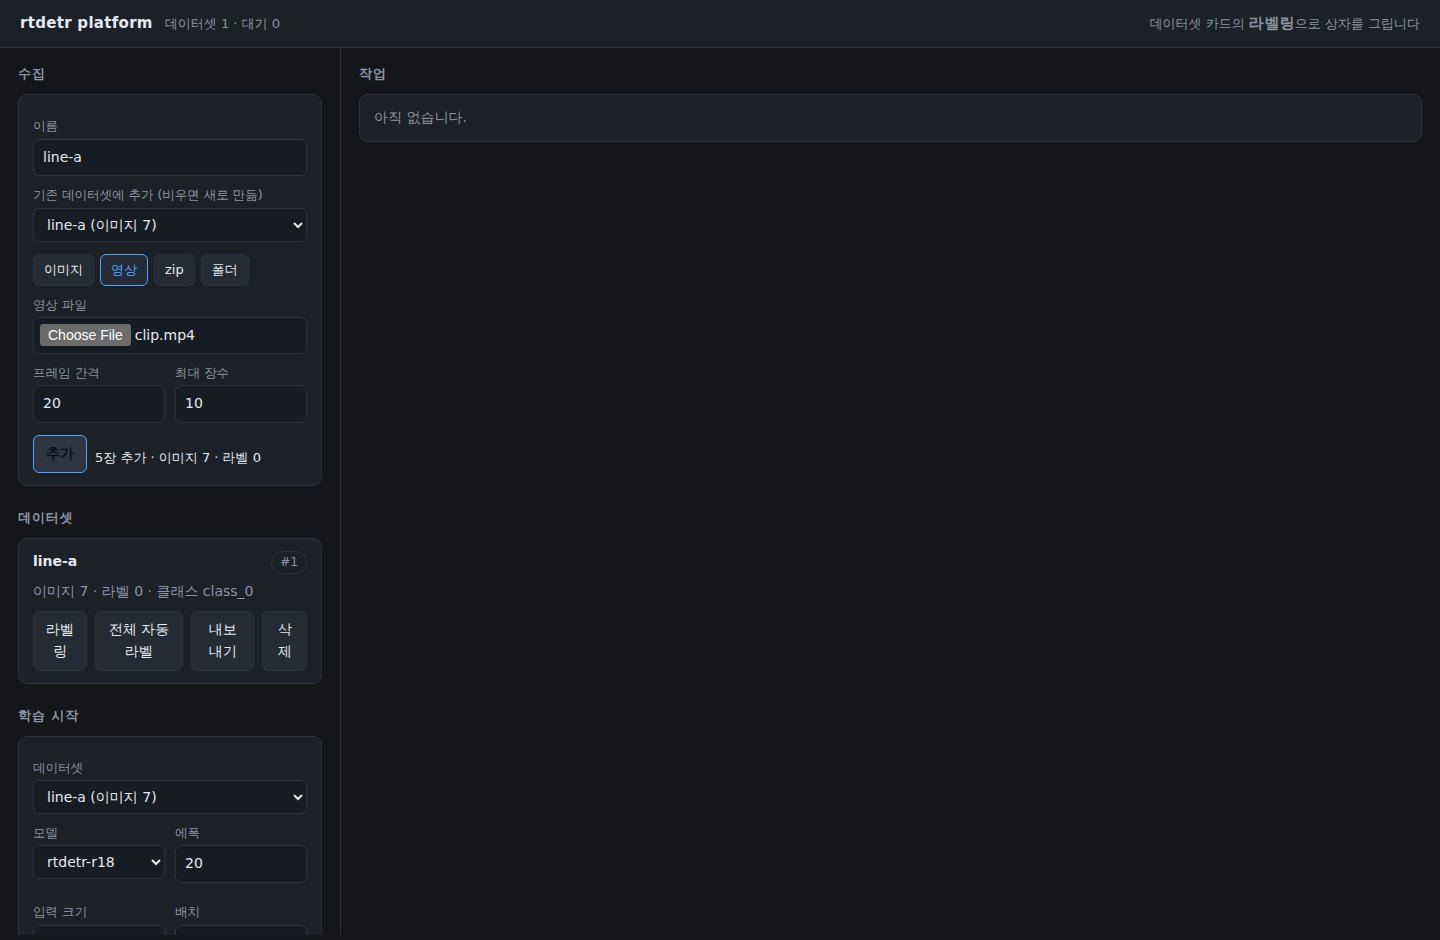
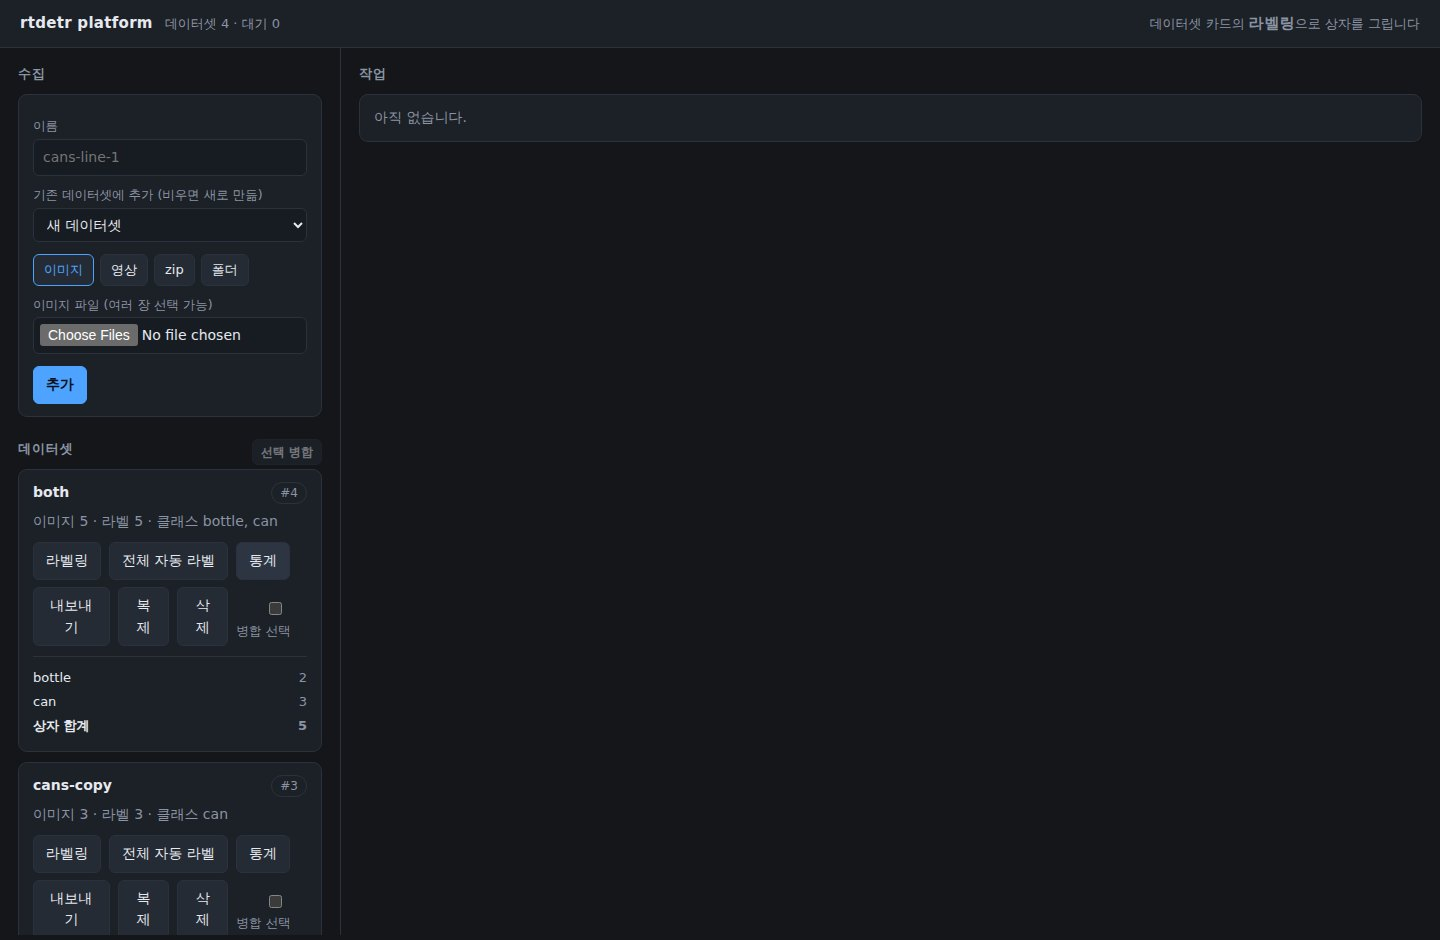
Manage datasets: stats, drop an image, duplicate, merge
Stage three of the plan. A dataset was something you could only create, label
and delete whole; the operations that a real collection needs were missing.

- *통계* counts boxes per class and flags what usually bites later: images with
  no label file, label files with no boxes, and specks under 0.1% of the frame.
  Finding out you have 400 people and 3 cars belongs here, not in a training
  curve two hours later.
- An image can be dropped with its label from the labelling page. Video
  extraction produces blurred frames and there was no way to be rid of them.
- *복제* snapshots a set before a relabel, which is otherwise a one-way door.
- *병합* combines datasets and remaps class indices by name. This is the one
  that cannot be done with a file copy: index 0 is "can" in one set and "bottle"
  in another, so a straight merge silently mislabels everything. Ids are sorted
  before merging so the union order does not depend on click order.

Verified in a browser: stats panel, duplicate, merge two sets into six images
with the union ["bottle", "can"], then drop one image (6 files to 5).

Claude-Session: https://claude.ai/code/session_013CggjBMmJTVZhEHZXgGVV7

diff --git a/platform/static/index.html b/platform/static/index.html
@@ -44,6 +44,11 @@
   .msg.err { color:var(--bad); }
   .bar { height:5px; border-radius:99px; background:#232833; margin-top:9px; overflow:hidden; }
   .bar i { display:block; height:100%; background:var(--accent); transition:width .3s; }
+  .stats { margin-top:10px; border-top:1px solid var(--line); padding-top:9px; font-size:13px; }
+  .stats table { width:100%; }
+  .stats td { padding:2px 0; border:0; }
+  .stats td:last-child { text-align:right; color:var(--dim); }
+  .warn { color:#ffb648; }
   img#preview { max-width:100%; border-radius:9px; border:1px solid var(--line); margin-top:10px; }
 </style>
 
@@ -99,7 +104,7 @@
       </div>
     </div>
 
-    <h2>데이터셋</h2>
+    <h2>데이터셋 <button id="merge" style="float:right;font-size:12px;padding:3px 8px" disabled>선택 병합</button></h2>
     <div id="datasets"></div>
 
     <h2>학습 시작</h2>
@@ -177,14 +182,27 @@ async function refresh() {
       <div class="row" style="margin-top:9px">
         <button onclick="location.assign('/label/${d.id}')">라벨링</button>
         <button data-autolabel="${d.id}">전체 자동 라벨</button>
-        <button onclick="location.assign('/api/datasets/${d.id}/export')">내보내기</button>
-        <button data-delete="${d.id}">삭제</button>
+        <button data-stats="${d.id}">통계</button>
       </div>
+      <div class="row">
+        <button onclick="location.assign('/api/datasets/${d.id}/export')">내보내기</button>
+        <button data-duplicate="${d.id}">복제</button>
+        <button data-delete="${d.id}">삭제</button>
+        <label class="dim" style="margin-left:auto"><input type="checkbox" data-pick="${d.id}"> 병합 선택</label>
+      </div>
+      <div class="stats" id="stats-${d.id}" hidden></div>
     </div>`).join("") || `<div class="card dim">아직 없습니다.</div>`;
   document.querySelectorAll("[data-autolabel]").forEach((el) =>
     el.onclick = () => autolabelAll(Number(el.dataset.autolabel)));
   document.querySelectorAll("[data-delete]").forEach((el) =>
     el.onclick = () => removeDataset(Number(el.dataset.delete)));
+  document.querySelectorAll("[data-stats]").forEach((el) =>
+    el.onclick = () => showStats(Number(el.dataset.stats)));
+  document.querySelectorAll("[data-duplicate]").forEach((el) =>
+    el.onclick = () => duplicate(Number(el.dataset.duplicate)));
+  document.querySelectorAll("[data-pick]").forEach((el) =>
+    el.onchange = updateMergeButton);
+  updateMergeButton();
 
   const options = datasets.map((d) =>
     `<option value="${d.id}">${d.name} (이미지 ${d.images})</option>`).join("");
@@ -327,6 +345,41 @@ $("ds-upload").onclick = async () => {
     say(`${added}이미지 ${res.images} · 라벨 ${res.labelled}`);
     await refresh();
   } catch (e) { say(e.message, true); }
+};
+
+const picked = () => [...document.querySelectorAll("[data-pick]:checked")].map((el) => Number(el.dataset.pick));
+function updateMergeButton() { $("merge").disabled = picked().length < 2; }
+
+async function showStats(datasetId) {
+  const panel = $(`stats-${datasetId}`);
+  if (!panel.hidden) { panel.hidden = true; return; }
+  const s = await api(`/api/datasets/${datasetId}/stats`);
+  const rows = s.per_class.map((c) => `<tr><td>${c.name}</td><td>${c.boxes}</td></tr>`).join("");
+  const warn = [];
+  if (s.unlabelled.length) warn.push(`라벨 없음 ${s.unlabelled.length}장`);
+  if (s.empty_labels.length) warn.push(`빈 라벨 ${s.empty_labels.length}장`);
+  if (s.tiny_boxes) warn.push(`아주 작은 상자 ${s.tiny_boxes}개`);
+  if (s.unknown_class_boxes) warn.push(`클래스 범위 밖 ${s.unknown_class_boxes}개`);
+  panel.innerHTML = `<table>${rows}<tr><td><b>상자 합계</b></td><td><b>${s.boxes}</b></td></tr></table>`
+    + (warn.length ? `<div class="warn" style="margin-top:6px">${warn.join(" · ")}</div>` : "");
+  panel.hidden = false;
+}
+
+async function duplicate(datasetId) {
+  try { await api(`/api/datasets/${datasetId}/duplicate`, { method: "POST",
+        headers: { "Content-Type": "application/json" }, body: "{}" }); await refresh(); }
+  catch (e) { $("ds-msg").textContent = e.message; $("ds-msg").className = "msg err"; }
+}
+
+$("merge").onclick = async () => {
+  const ids = picked();
+  const name = prompt("병합된 데이터셋 이름", "merged");
+  if (!name) return;
+  try { const res = await api("/api/datasets/merge", { method: "POST",
+          headers: { "Content-Type": "application/json" }, body: JSON.stringify({ ids, name }) });
+    $("ds-msg").textContent = `${res.added}장 병합 · 클래스 ${res.classes.join(", ")}`;
+    $("ds-msg").className = "msg"; await refresh(); }
+  catch (e) { $("ds-msg").textContent = e.message; $("ds-msg").className = "msg err"; }
 };
 
 async function removeDataset(datasetId) {

diff --git a/platform/static/label.html b/platform/static/label.html
@@ -61,6 +61,7 @@
     <button id="copy" title="이전 이미지의 상자를 그대로 가져옵니다 (C)">이전 상자 복사</button>
     <button id="undo">되돌리기</button>
     <button id="clear">모두 지우기</button>
+    <button id="drop" title="이 이미지와 라벨을 데이터셋에서 지웁니다">이미지 삭제</button>
     <button id="reset-zoom" hidden>100%</button>
     <span class="grow"></span>
     <span class="status" id="status"></span>
@@ -373,6 +374,15 @@ function onKey(e) {
 document.addEventListener("keyup", (e) => {
   if (e.code === "Space") { spaceDown = false; canvas.style.cursor = "crosshair"; }
 });
+
+$("drop").onclick = async () => {
+  if (!confirm(`${dataset.files[index].name} 을(를) 데이터셋에서 지웁니다.`)) return;
+  dirty = false;                                   // it is going away; do not save it back
+  await api(`/api/datasets/${DATASET}/images/${index}`, { method: "DELETE" });
+  dataset = await api(`/api/datasets/${DATASET}`);
+  if (!dataset.files.length) { location.assign("/"); return; }
+  await load(Math.min(index, dataset.files.length - 1));
+};
 
 $("copy").onclick = copyPrevious;
 $("add-class").onclick = addClass;

diff --git a/platform/app.py b/platform/app.py
@@ -242,6 +242,78 @@ def autolabel_all(dataset_id: int, payload: dict):
     return {"id": job_id}
 
 
+@app.get("/api/datasets/{dataset_id}/stats")
+def dataset_stats(dataset_id: int):
+    """What is actually in there — the numbers you check before training."""
+    dataset = _dataset(dataset_id)
+    images_root, labels_root = Path(dataset["images_dir"]), Path(dataset["labels_dir"])
+    names = json.loads(dataset["classes"])
+
+    per_class = dict.fromkeys(range(len(names)), 0)
+    unknown_class = 0
+    boxes = tiny = 0
+    unlabelled: list[str] = []
+    empty: list[str] = []
+    for image in list_images(images_root):
+        label = label_path(image, images_root, labels_root)
+        if not label.exists():
+            unlabelled.append(str(image.relative_to(images_root)))
+            continue
+        rows = read_labels(label)
+        if not rows:
+            empty.append(str(image.relative_to(images_root)))
+        for row in rows:
+            boxes += 1
+            if row["cls"] in per_class:
+                per_class[row["cls"]] += 1
+            else:
+                unknown_class += 1
+            if row["w"] * row["h"] < 0.001:  # under 0.1% of the frame
+                tiny += 1
+    return {
+        "images": len(list_images(images_root)),
+        "boxes": boxes,
+        "per_class": [{"name": n, "boxes": per_class.get(i, 0)} for i, n in enumerate(names)],
+        "unknown_class_boxes": unknown_class,
+        "unlabelled": unlabelled,
+        "empty_labels": empty,
+        "tiny_boxes": tiny,
+    }
+
+
+@app.delete("/api/datasets/{dataset_id}/images/{index}")
+def delete_image(dataset_id: int, index: int):
+    """Drop one image and its label — blurred frames are not worth labelling."""
+    dataset = _dataset(dataset_id)
+    images_root = Path(dataset["images_dir"])
+    images = list_images(images_root)
+    if not 0 <= index < len(images):
+        raise HTTPException(404, "no such image")
+    label = label_path(images[index], images_root, Path(dataset["labels_dir"]))
+    images[index].unlink(missing_ok=True)
+    label.unlink(missing_ok=True)
+    worker.refresh_counts(dataset_id)
+    return {"deleted": True, "images": len(list_images(images_root))}
+
+
+@app.post("/api/datasets/{dataset_id}/duplicate")
+def duplicate_dataset(dataset_id: int, payload: dict = None):
+    """A copy to experiment on — relabelling in place is a one-way door."""
+    dataset = _dataset(dataset_id)
+    name = (payload or {}).get("name") or f"{dataset['name']}-copy"
+    return _combine([dataset], name)
+
+
+@app.post("/api/datasets/merge")
+def merge_datasets(payload: dict):
+    """One dataset out of several, with class indices remapped onto a union."""
+    # sorted, so the class union comes out the same whatever order they were picked in
+    ids = sorted({int(i) for i in payload.get("ids") or []})
+    if len(ids) < 2:
+        raise HTTPException(400, "give at least two datasets to merge")
+    return _combine([_dataset(i) for i in ids], payload.get("name") or "merged")
+
+
 @app.get("/api/datasets/{dataset_id}/export")
 def export_dataset(dataset_id: int):
     """The whole dataset as a zip: images, labels, data.yaml — ready to re-import."""
@@ -620,6 +692,42 @@ def _ensure_split(dataset: dict, val_ratio: float) -> str | None:
         yaml.safe_dump(cfg, sort_keys=False, allow_unicode=True), encoding="utf-8"
     )
     return f"{len(train)} train / {len(val)} val images"
+
+
+def _combine(sources: list[dict], name: str) -> dict:
+    """Copy several datasets into a new one, unioning their class lists.
+
+    Class indices are per-dataset, so a straight file copy would silently turn
+    every "car" in the second set into whatever index 1 means in the first.
+    Names are matched instead, and labels rewritten onto the union.
+    """
+    names: list[str] = []
+    for source in sources:
+        for class_name in json.loads(source["classes"]):
+            if class_name not in names:
+                names.append(class_name)
+
+    target = DATASETS / f"{int(time.time())}_{_slug(name)}"
+    (target / "images").mkdir(parents=True)
+    (target / "labels").mkdir(parents=True)
+    copied = 0
+    for source in sources:
+        images_root, labels_root = Path(source["images_dir"]), Path(source["labels_dir"])
+        remap = {i: names.index(n) for i, n in enumerate(json.loads(source["classes"]))}
+        prefix = _slug(source["name"])
+        for image in list_images(images_root):
+            stem = f"{prefix}_{image.relative_to(images_root).as_posix().replace('/', '_')}"
+            destination = _unique(target / "images" / stem)
+            shutil.copy2(image, destination)
+            copied += 1
+            label = label_path(image, images_root, labels_root)
+            if not label.exists():
+                continue
+            rows = [dict(row, cls=remap.get(row["cls"], row["cls"])) for row in read_labels(label)]
+            write_labels((target / "labels" / destination.name).with_suffix(".txt"), rows)
+
+    registered = _register(name, target, names=names)
+    return {**registered, "added": copied, "sources": [s["id"] for s in sources]}
 
 
 def _write_data_yaml(root: Path, images_root: Path, names: list[str]) -> Path:

diff --git a/platform/tests/test_app.py b/platform/tests/test_app.py
@@ -400,3 +400,88 @@ def test_something_that_is_not_a_video_is_refused(studio):
     )
     assert response.status_code == 400
     assert list(module.DATASETS.iterdir()) == []
+
+
+def test_stats_say_what_is_in_a_dataset_and_what_looks_wrong(studio):
+    client, _ = studio
+    upload(
+        client,
+        {
+            "images/a.jpg": image_bytes(),
+            "images/b.jpg": image_bytes(60),
+            "images/c.jpg": image_bytes(90),
+            "labels/a.txt": b"0 0.5 0.5 0.3 0.3\n1 0.2 0.2 0.1 0.1\n",
+            "labels/b.txt": b"",                       # labelled as "nothing here"
+            "labels/c.txt": b"0 0.5 0.5 0.01 0.01\n",  # a speck
+            "data.yaml": b"train: images\nval: images\nnames:\n  0: can\n  1: bottle\n",
+        },
+    )
+    stats = client.get("/api/datasets/1/stats").json()
+    assert stats["images"] == 3 and stats["boxes"] == 3
+    assert stats["per_class"] == [{"name": "can", "boxes": 2}, {"name": "bottle", "boxes": 1}]
+    assert stats["empty_labels"] == ["b.jpg"] and stats["unlabelled"] == []
+    assert stats["tiny_boxes"] == 1
+
+
+def test_an_image_can_be_dropped_with_its_label(studio):
+    client, _ = studio
+    upload(
+        client,
+        {
+            "images/a.jpg": image_bytes(),
+            "images/b.jpg": image_bytes(60),
+            "labels/a.txt": b"0 0.5 0.5 0.2 0.2\n",
+        },
+    )
+    assert client.request("DELETE", "/api/datasets/1/images/0").json()["images"] == 1
+    listing = client.get("/api/datasets/1").json()
+    assert [f["name"] for f in listing["files"]] == ["b.jpg"]
+    assert client.get("/api/datasets").json()[0]["labelled"] == 0  # the label went too
+    assert client.request("DELETE", "/api/datasets/1/images/9").status_code == 404
+
+
+def test_a_dataset_can_be_duplicated_before_a_risky_relabel(studio):
+    client, _ = studio
+    upload(client, {"images/a.jpg": image_bytes(), "labels/a.txt": b"0 0.5 0.5 0.2 0.2\n"})
+    copy = client.post("/api/datasets/1/duplicate", json={"name": "safe"}).json()
+    assert copy["id"] == 2 and copy["images"] == 1 and copy["labelled"] == 1
+
+    # the copy is independent: dropping from it leaves the original alone
+    client.request("DELETE", "/api/datasets/2/images/0")
+    assert client.get("/api/datasets/1").json()["images"] == 1
+
+
+def test_merging_remaps_class_indices_onto_the_union(studio):
+    """The subtle one: index 0 means different things in different datasets."""
+    client, module = studio
+    upload(
+        client,
+        {
+            "images/a.jpg": image_bytes(),
+            "labels/a.txt": b"0 0.5 0.5 0.2 0.2\n",
+            "data.yaml": b"train: images\nval: images\nnames:\n  0: can\n",
+        },
+        name="cans",
+    )
+    upload(
+        client,
+        {
+            "images/b.jpg": image_bytes(60),
+            "labels/b.txt": b"0 0.4 0.4 0.2 0.2\n1 0.6 0.6 0.2 0.2\n",
+            "data.yaml": b"train: images\nval: images\nnames:\n  0: bottle\n  1: can\n",
+        },
+        name="bottles",
+    )
+    # picked in either order, the union comes out the same
+    merged = client.post("/api/datasets/merge", json={"ids": [2, 1], "name": "both"}).json()
+    assert merged["classes"] == ["can", "bottle"] and merged["images"] == 2
+
+    root = module.Path(client.get("/api/datasets").json()[0]["path"])
+    labels = sorted((root / "labels").glob("*.txt"))
+    written = {p.name: p.read_text().split() for p in labels}
+    from labeling import read_labels
+
+    # "can" was 0 in the first set and 1 in the second; both must end up 0
+    classes = sorted(row["cls"] for p in labels for row in read_labels(p))
+    assert classes == [0, 0, 1] and len(written) == 2
+    assert client.post("/api/datasets/merge", json={"ids": [1]}).status_code == 400

diff --git a/platform/README.md b/platform/README.md
@@ -28,14 +28,19 @@ python platform/run.py                 # http://127.0.0.1:8080
    previous image's boxes — a fixed camera repeats itself. Classes can be added
    from the sidebar and show how many boxes each has, and the file list can hide
    what is already labelled.
-3. **Let the model do the first pass** — *자동 라벨* fills the current image;
+3. **Keep the set honest** — *통계* counts boxes per class and flags what usually
+   bites: images with no label, labels with no boxes, specks under 0.1% of the
+   frame. *복제* takes a snapshot before a risky relabel, *병합* combines sets and
+   remaps class indices by name (index 0 rarely means the same thing in two
+   datasets), and an image can be dropped with its label from the labelling page.
+4. **Let the model do the first pass** — *자동 라벨* fills the current image;
    *전체 자동 라벨* queues a job over every unlabelled image in the dataset.
    Correcting boxes is far quicker than drawing them, and once you have a
    `best.pt` you can point the auto-labeller at it.
-4. **Train** — model, epochs, image size, batch, whether to freeze the backbone,
+5. **Train** — model, epochs, image size, batch, whether to freeze the backbone,
    which device. Jobs queue and run one at a time; the loss and mAP curve updates
    per epoch; *중지* stops at the next epoch boundary.
-5. **Take it away** — `best.pt`, the OpenVINO IR as a zip (exported when a run
+6. **Take it away** — `best.pt`, the OpenVINO IR as a zip (exported when a run
    finishes), `results.csv`. *이 모델로 추론* tries the trained model on an image.
 
 ![labelling](../docs/assets/labeling.jpg)
@@ -62,6 +67,10 @@ The pages are only clients of these, so a script can do anything the UI does:
 | `POST /api/datasets/images` | multipart: `name`, `files` (images), optional `dataset_id` |
 | `POST /api/datasets/video` | multipart: `name`, `video`, `every`, `max_frames` |
 | `GET /api/datasets/{id}/export` | the dataset as a zip |
+| `GET /api/datasets/{id}/stats` | boxes per class, and what looks wrong |
+| `DELETE /api/datasets/{id}/images/{index}` | drop one image and its label |
+| `POST /api/datasets/{id}/duplicate` | a copy to experiment on |
+| `POST /api/datasets/merge` | `{ids, name}` — one set, class indices remapped |
 | `DELETE /api/datasets/{id}` | |
 | `POST /api/datasets/local` | `{path, name, names}` — register a folder in place |
 | `GET /api/datasets` · `GET /api/datasets/{id}` | the second lists the images |

diff --git a/platform/PLAN.md b/platform/PLAN.md
@@ -34,7 +34,8 @@
 
 **되는 것** — 수집(이미지 다중 업로드 · 영상에서 프레임 추출 · 폴더 등록 · zip 업로드,
 기존 데이터셋에 이어붙이기), 라벨링(그리기/이동/크기/삭제/되돌리기/
-자동 라벨 단건·일괄, 줌·팬, 이전 상자 복사, 클래스 추가·개수, 라벨 없는 것만 보기), 데이터셋 목록·클래스 편집·삭제·zip 내보내기/들여오기,
+자동 라벨 단건·일괄, 줌·팬, 이전 상자 복사, 클래스 추가·개수, 라벨 없는 것만 보기), 데이터셋 목록·통계·클래스 편집·이미지 삭제·복제·병합(클래스 재매핑)·삭제·
+zip 내보내기/들여오기,
 학습 큐·에폭 곡선·중지·백본 고정·검증 분할, 산출물 다운로드(best.pt / IR / CSV),
 이미지 한 장 추론 미리보기, 재시작 시 유령 작업 정리.
 
@@ -63,7 +64,8 @@
 
 5. ~~**라벨링 편의.**~~ **완료** — 휠 줌·가운데버튼/스페이스 팬, <kbd>C</kbd>로 이전
    이미지 상자 복사, 라벨 없는 이미지만 보기, 클래스별 개수, 클래스 추가 UI.
-6. **데이터셋 관리.** 이미지 삭제, 데이터셋 복제·병합, 스냅샷(버전).
+6. ~~**데이터셋 관리.**~~ **완료** — 이미지 삭제, 복제(실험 전 스냅샷), 병합(클래스
+   이름 기준 재매핑), 통계(클래스별 상자 수·라벨 없는 이미지·빈 라벨·아주 작은 상자).
 7. **학습 편의.** 중단된 작업 재개, 하이퍼파라미터 프리셋(빠름/균형/정확),
    실패 원인 요약, 학습 로그 tail.
 8. **실시간 미리보기.** 웹캠을 열어 현재 모델로 바로 보기.
